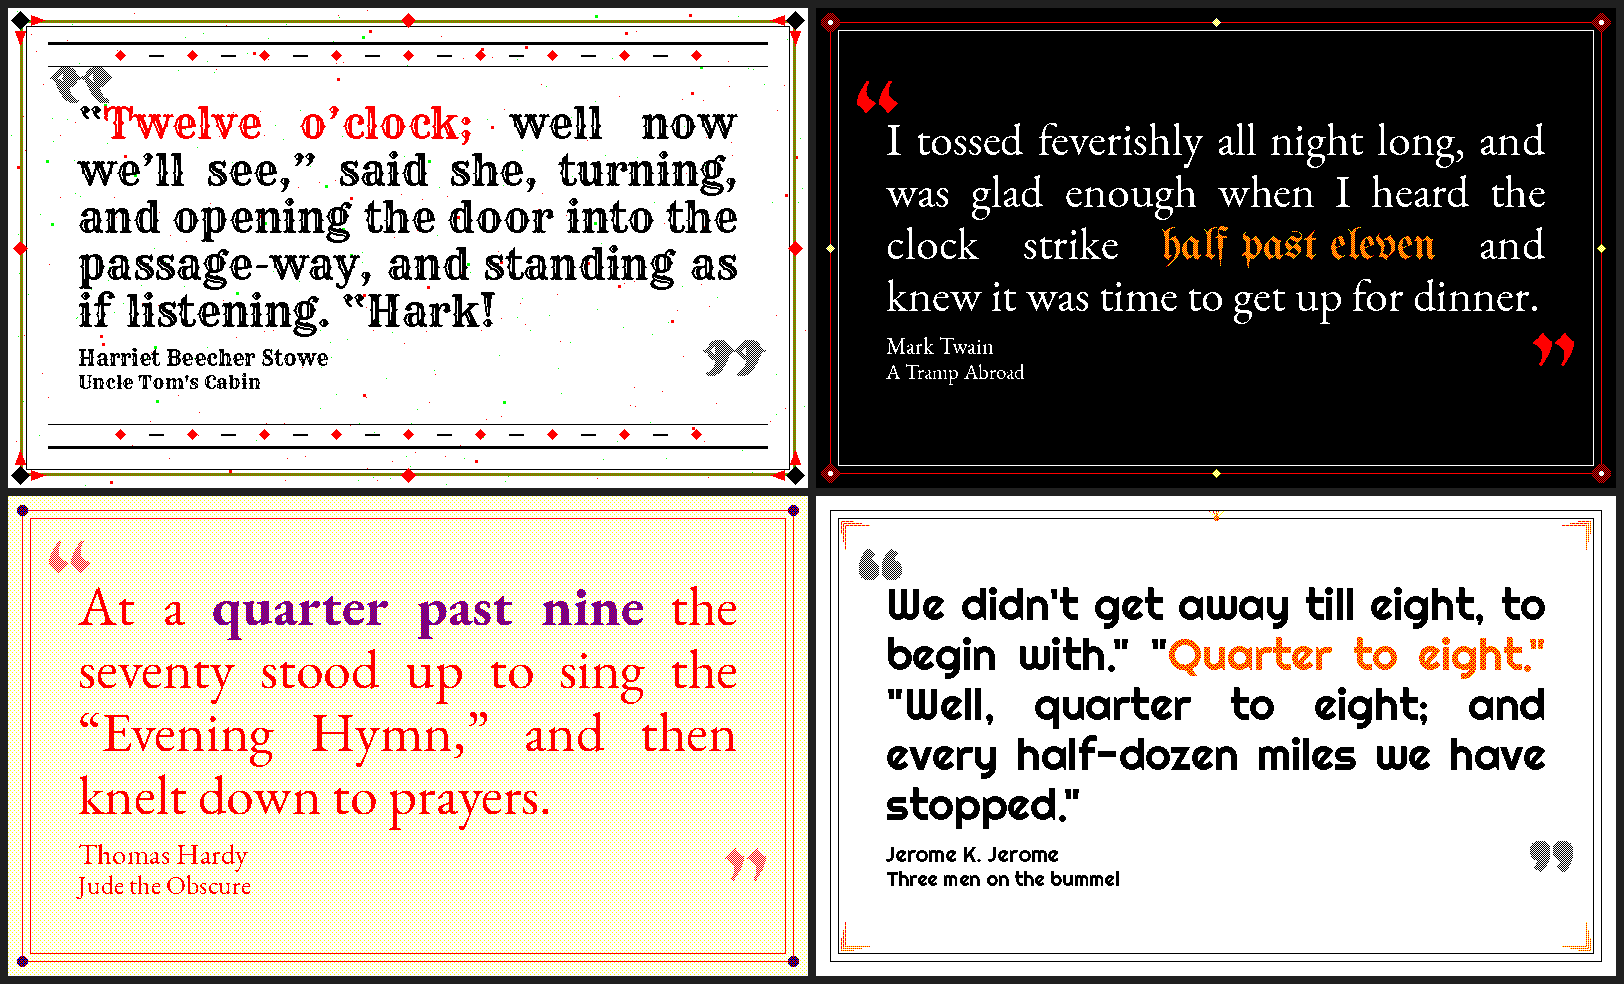
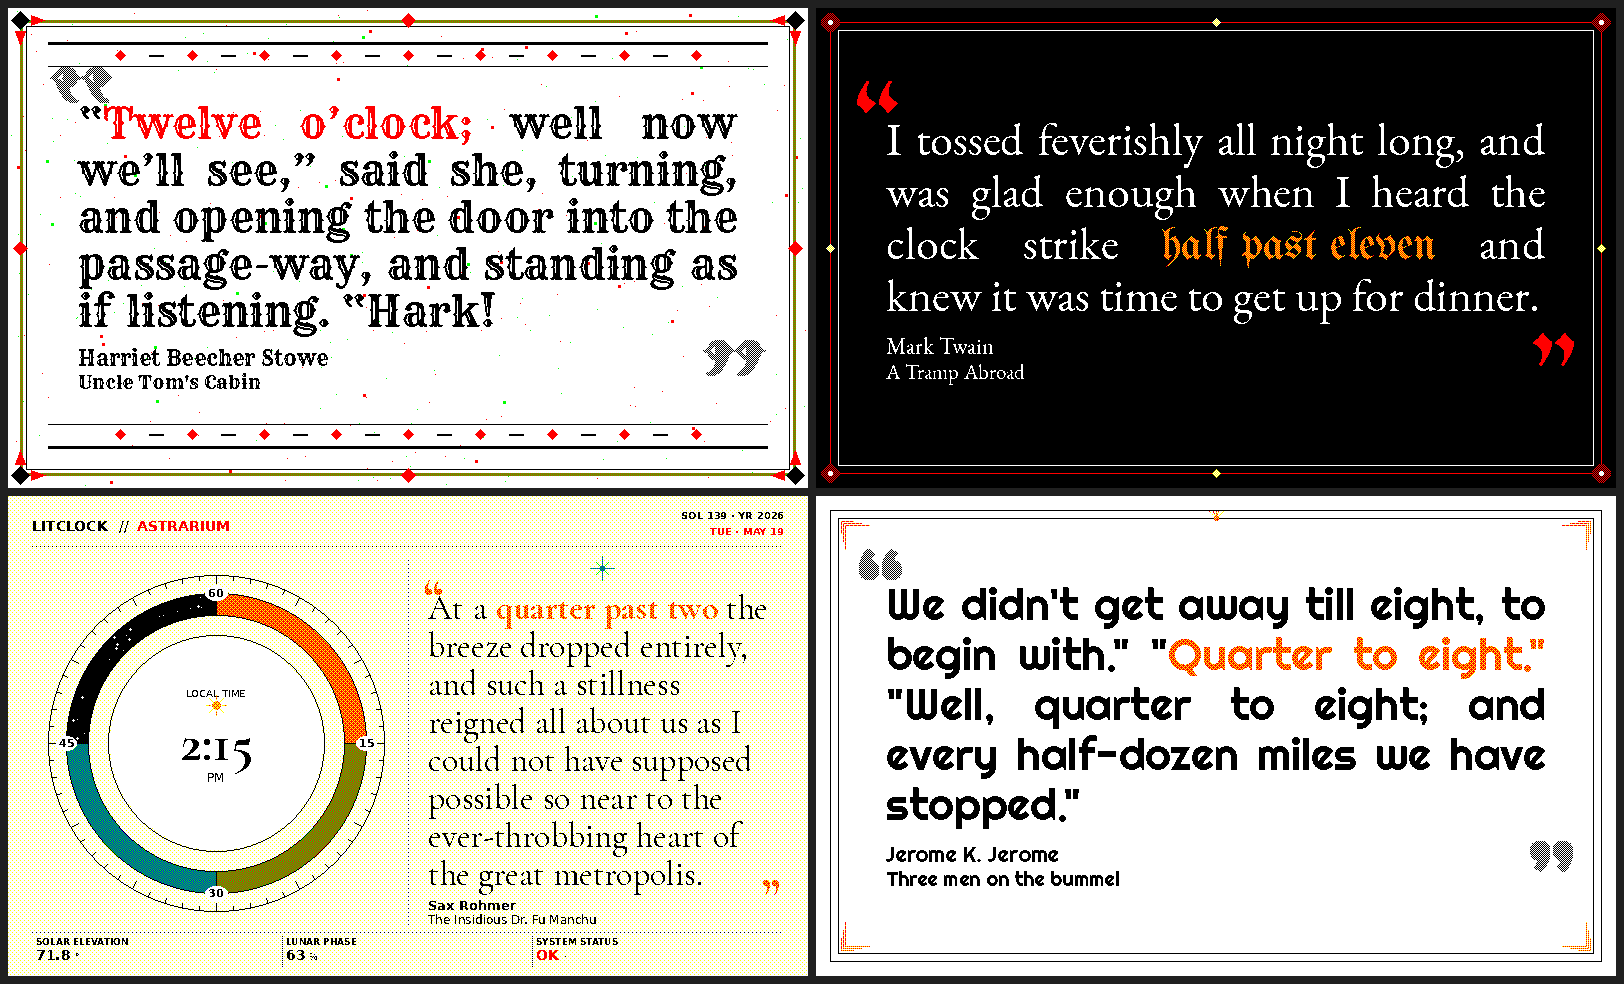
README: swap lower-left preview tile to astrarium
Replaces the illuminated tile in the 4-up README hero with the astrarium
dashboard theme so the preview reflects the broader range the rotation
now includes. Alt text updated to match the new tile order.

diff --git a/README.md b/README.md
@@ -4,7 +4,7 @@
 
 Idle Hours is a literary clock built from public-domain text. It picks a quote that matches the current fuzzy time bucket, renders it into an 800×480 image, and can push that image to an eInk display such as the Pimoroni Inky Impression 7.3.
 
-![Idle Hours rendered in saloon, gothic, illuminated, and deco themes](idle_hours/assets/preview.png)
+![Idle Hours rendered in saloon, gothic, astrarium, and deco themes](idle_hours/assets/preview.png)
 
 > **Upgrading from LitClock?** This project was previously named LitClock.
 > The rename is hard (new package name, new CLI command, new filesystem
